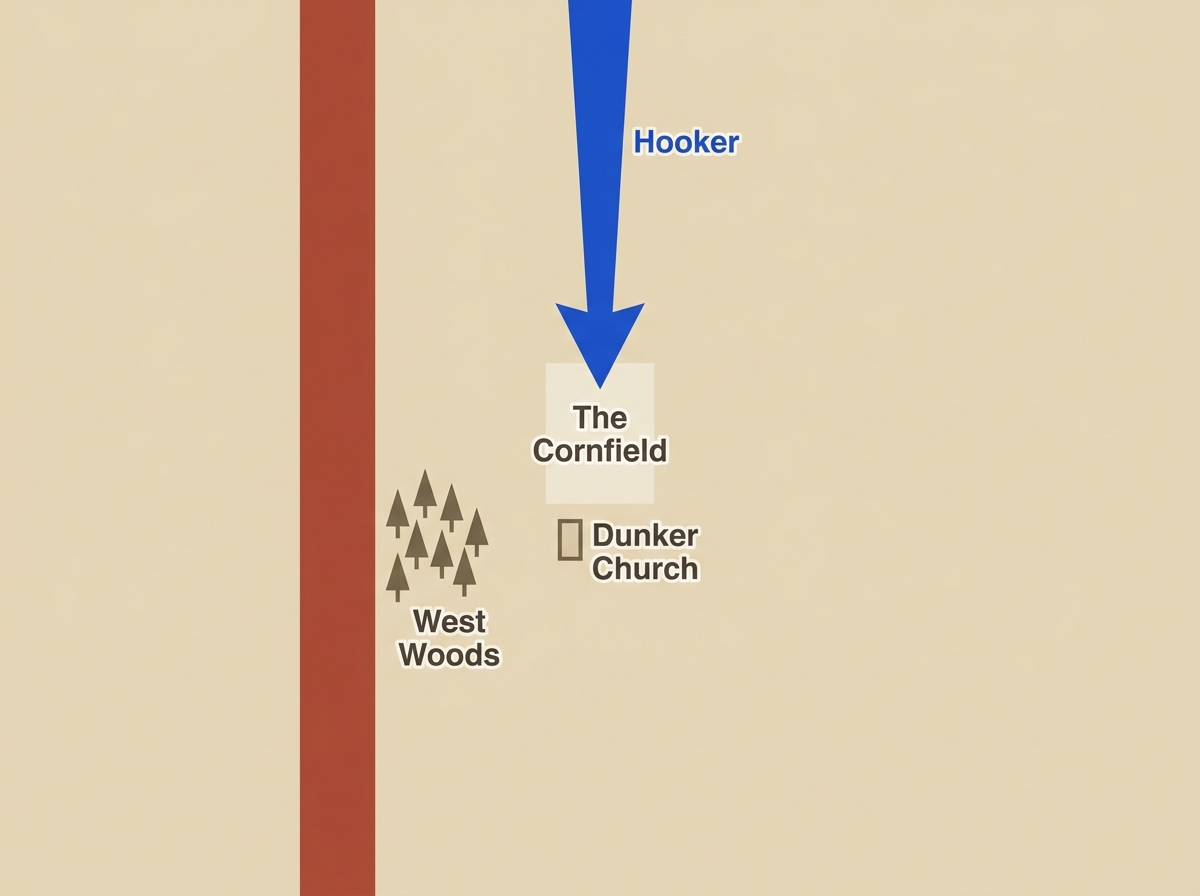
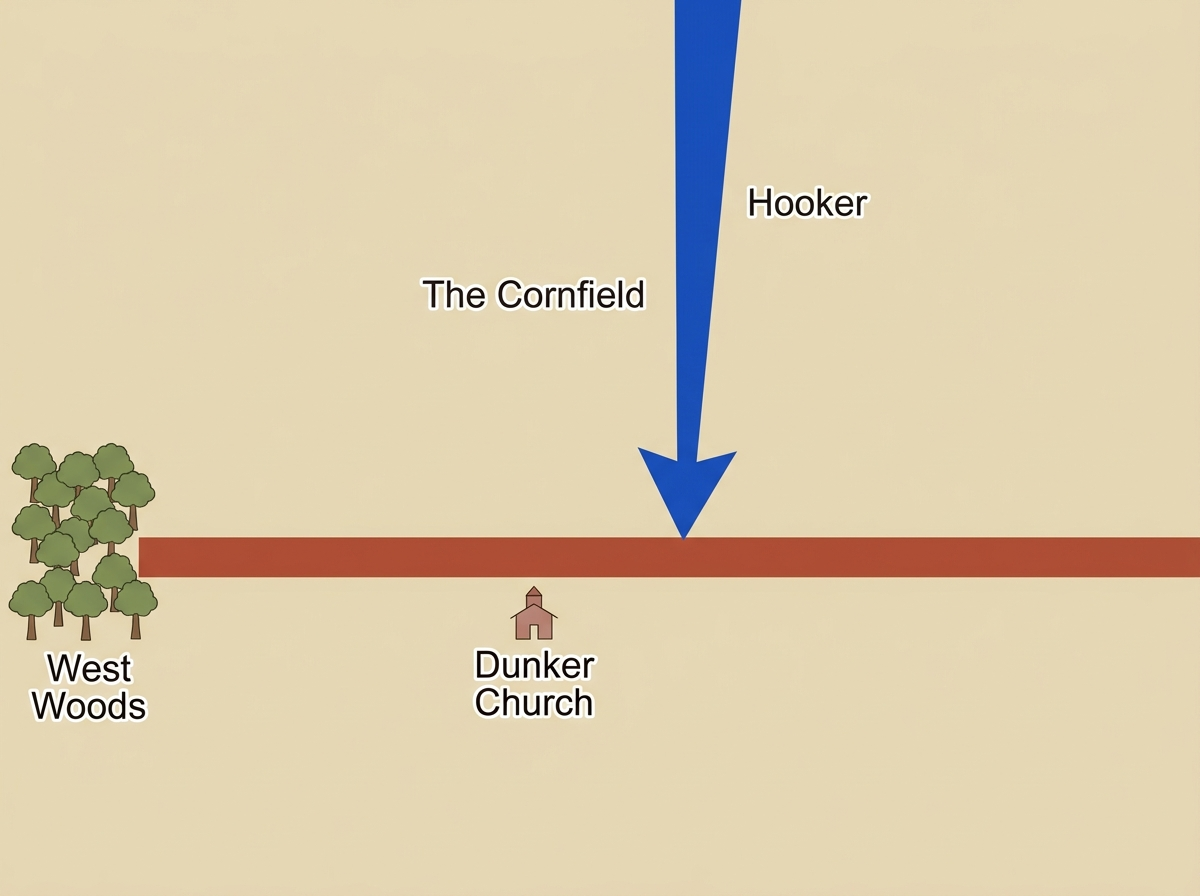
phase-2 war: fix Cornfield map geography + add a map-review GATE to the pipeline
The Cornfield's Confederate line was drawn N-S on the west; it should be an E-W
line facing Hooker's southward attack — regenerated correctly. Add a map-review
gate to the spec: review every map for TACTICAL/GEOGRAPHIC correctness (defensive
line faces the attack, arrows match the action, positions/orientation right), not
just label hygiene.

Changed region(s): [[0.0, 0.0, 1.0, 1.0]]

diff --git a/audits/war-content-pipeline.md b/audits/war-content-pipeline.md
@@ -59,6 +59,23 @@ and people; make the cost *felt*.
    browser); **credit line goes UNDER the image**, not as an overlay. Battles get
    a schematic map (smooth blue/rust arrows — see `feedback_war_map_styles`);
    theme sections get a period portrait/photo.
+6b. **Map review — a GATE, not a glance.** Every generated map is reviewed like
+   the fact-checker reviews prose — for **tactical/geographic correctness**, not
+   just label hygiene. Check each map against the battle's real geography (the
+   fact pack / sources):
+   - **Orientation & positions:** a defensive line must FACE the attack — the
+     attacker's arrow strikes the defender's *front*; lines and places sit in
+     their true relative positions; north is up. (Lesson: the Cornfield's
+     Confederate line was first drawn as a north–south band on the *west* when
+     it should be an east–west line *facing Hooker's southward attack* — a label-
+     only eyeball missed it.)
+   - **Arrows match the action:** who attacked, from which direction, against what.
+   - **Label hygiene:** no colour words (BLUE/RUST) printed as labels, exact
+     spelling, ≤6 labels, no garbled glyphs.
+   - **Style:** flat tan, no frame, no compass/ornament.
+   Regenerate until correct. (A vision-capable critic agent can do this pass —
+   it reads the PNG and verifies the geography against sources, same discipline
+   as the prose fact-checker.)
 7. **Integrate** — convert to the reader section format, wire the route, add the
    next-section link, run the deterministic gates (links) as applicable. The
    battle **dossier** also carries an **Outcome section**: a one-line verdict

diff --git a/map-prompts/war/antietam.md b/map-prompts/war/antietam.md
@@ -35,9 +35,9 @@ Six labels only: Potomac, Sharpsburg, Frederick, Harpers Ferry, Lee, McClellan. 
 
 A clean schematic close-up of the morning fight at Antietam, dawn September 17, 1862 — the northern end of the field. A zoomed-in tactical view, NOT the whole battle.
 
-Draw the Confederate position as a vertical RUST band down the west (left) side. Near the center, label a small open patch "The Cornfield". Just south of the cornfield, draw a small building marker labeled "Dunker Church". West of the church, label a stand of trees "West Woods".
+The Confederates are defending the SOUTH end of the field, facing NORTH. Draw their position as a horizontal RUST line running east–west across the lower-center of the image — the line the Union is attacking into. Anchor the western end of that rust line at a stand of trees labeled "West Woods" (lower left). Place a small building marker labeled "Dunker Church" just behind the rust line (below it). Label the open ground NORTH of the rust line (upper-center) "The Cornfield".
 
-Show the Union attack as one bold BLUE arrow driving straight south from the top edge into the Cornfield, labeled "Hooker".
+Show the Union attack as one bold BLUE arrow driving straight south from the top edge, down through the Cornfield and into the rust line, labeled "Hooker".
 
 Four labels only: The Cornfield, Dunker Church, West Woods, Hooker. Nothing else.
 
